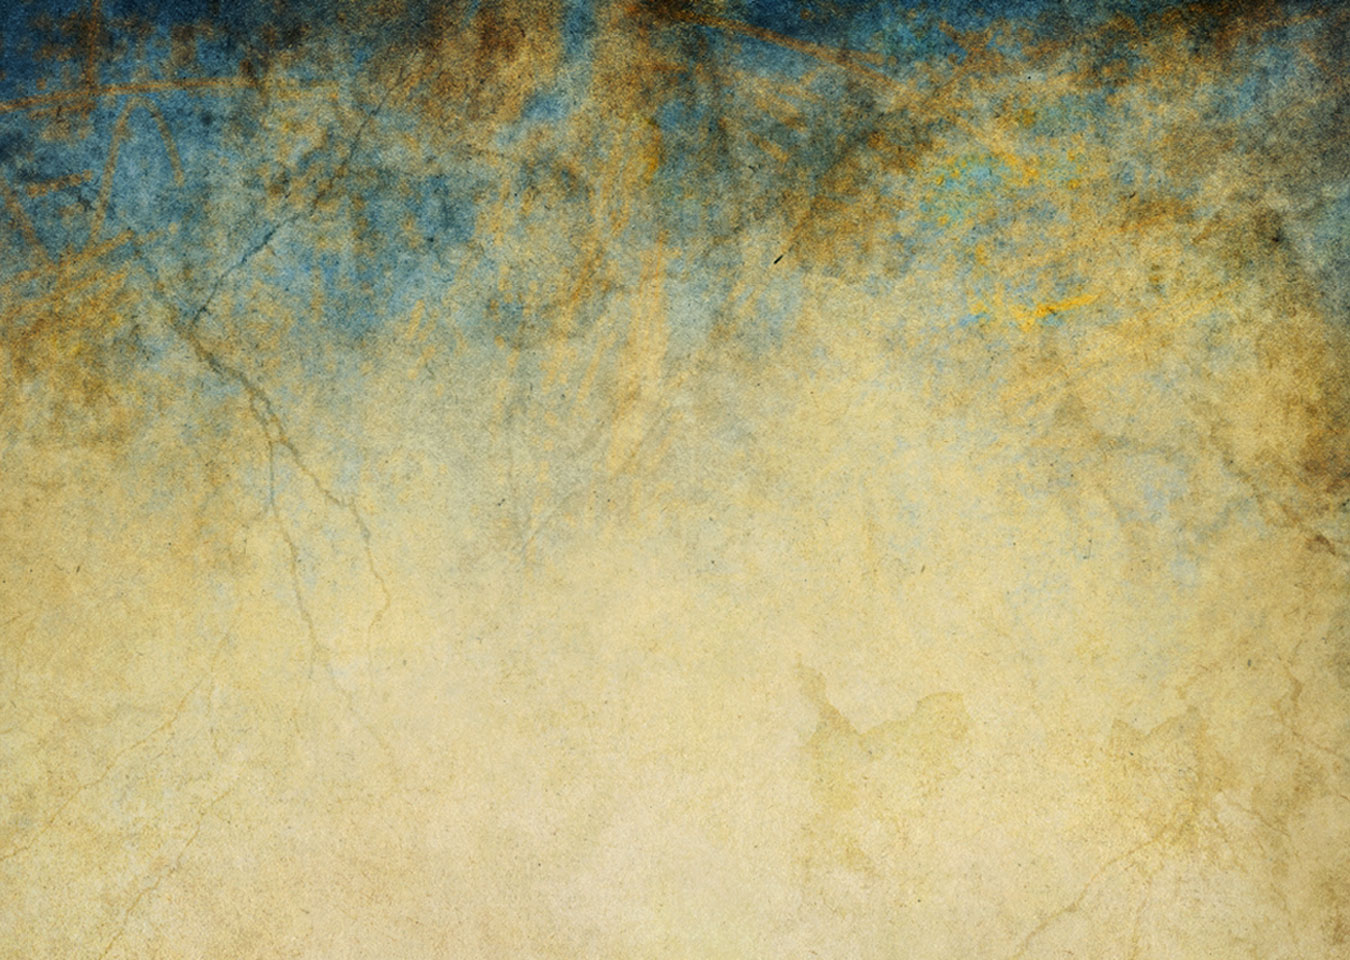
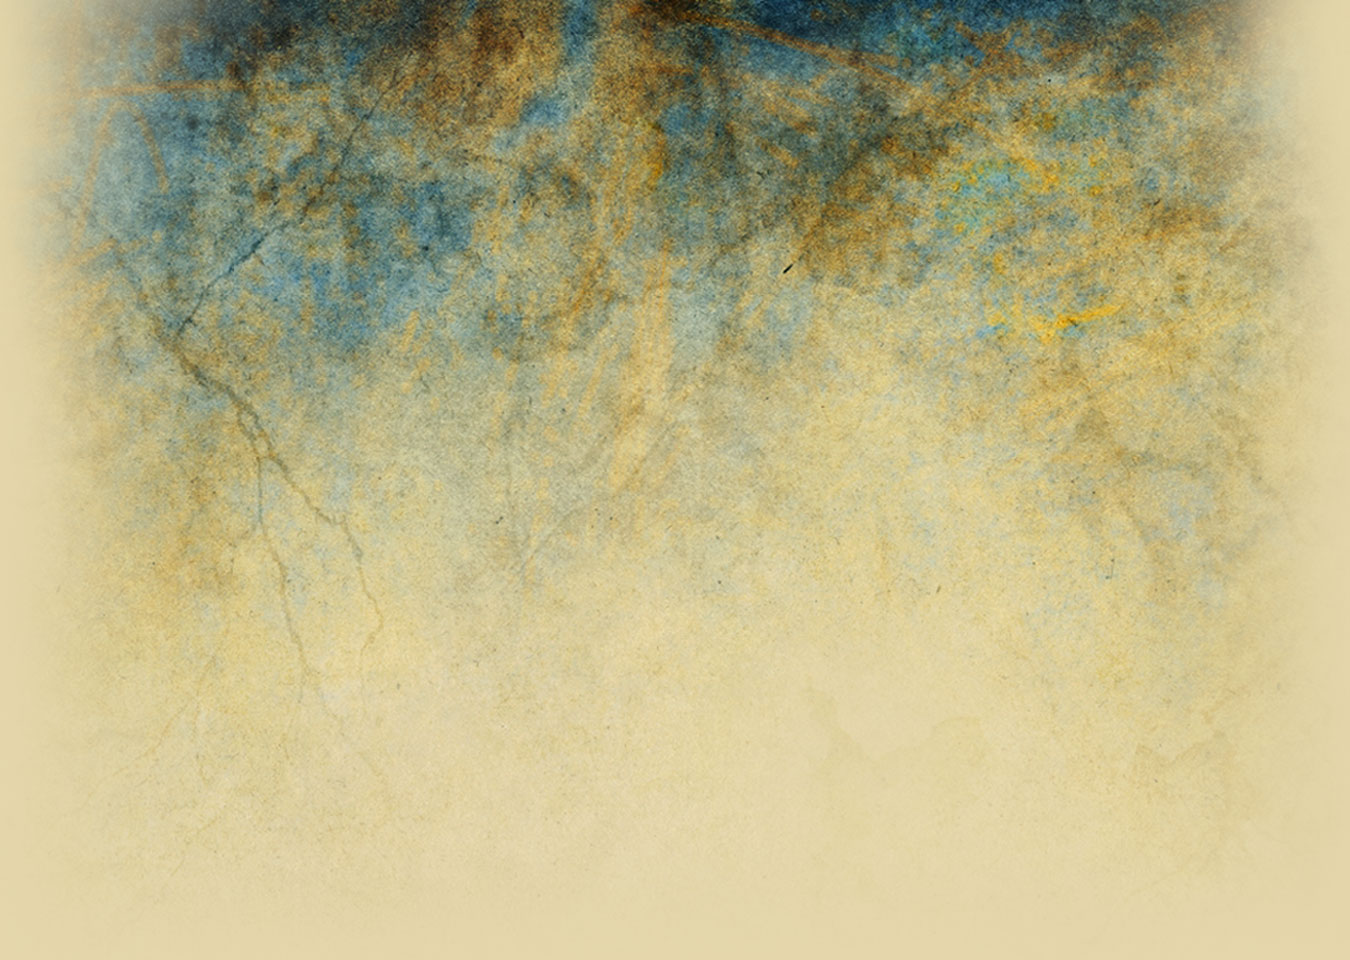
#38 Replaced the new image and modified the background color of the body to #E4D7AB

diff --git a/src/main/webapp/styles/bootstrap-emsiweb.css b/src/main/webapp/styles/bootstrap-emsiweb.css
@@ -1,6 +1,7 @@
 body {
 	background-image: url('../images/emsi_bg.jpg');
-	background-repeat: repeat;
+	background-repeat: repeat-x;
+	background-color: #E4D7AB !important;
 	margin: 0px;
 	padding: 0px;
 }
